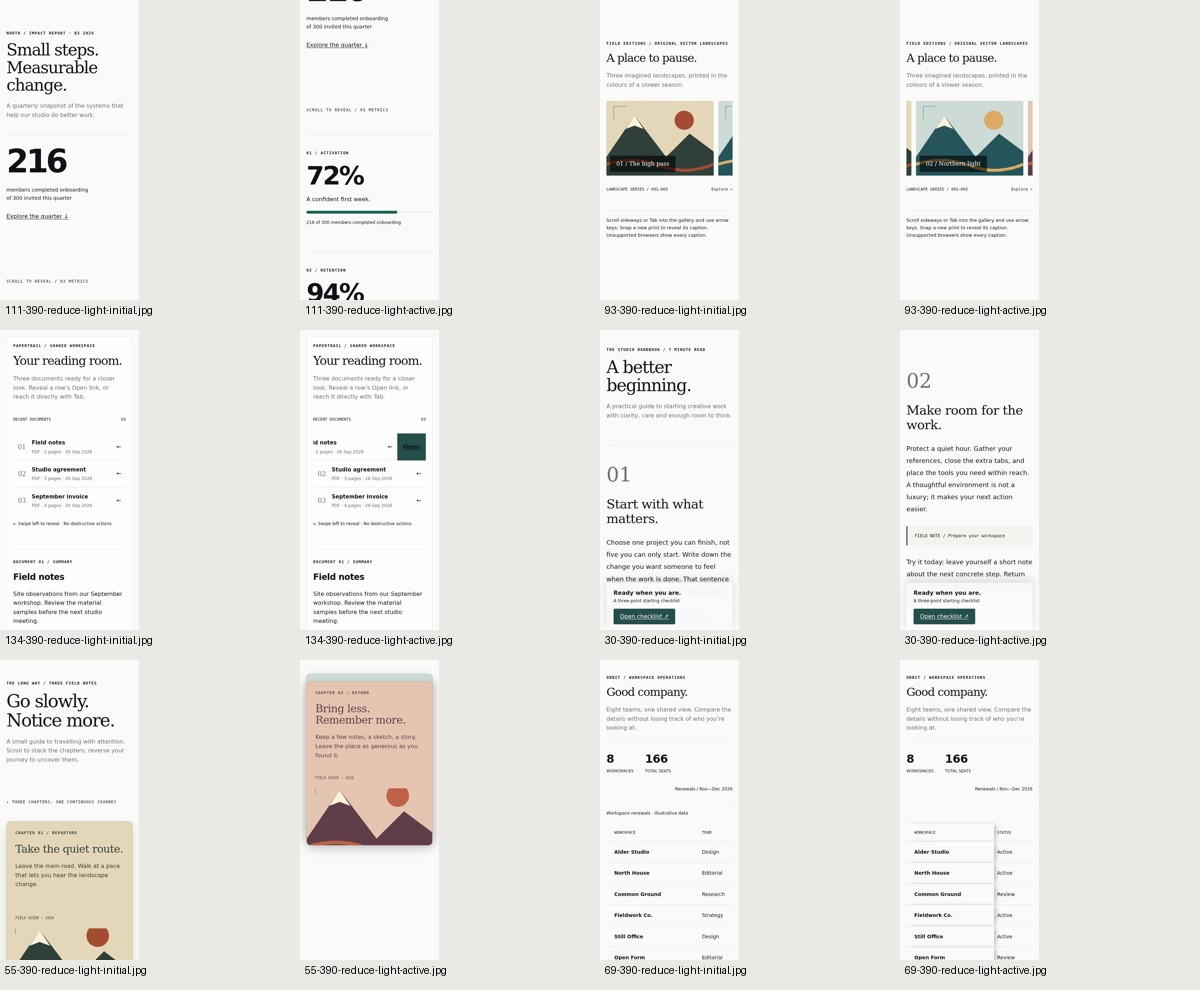
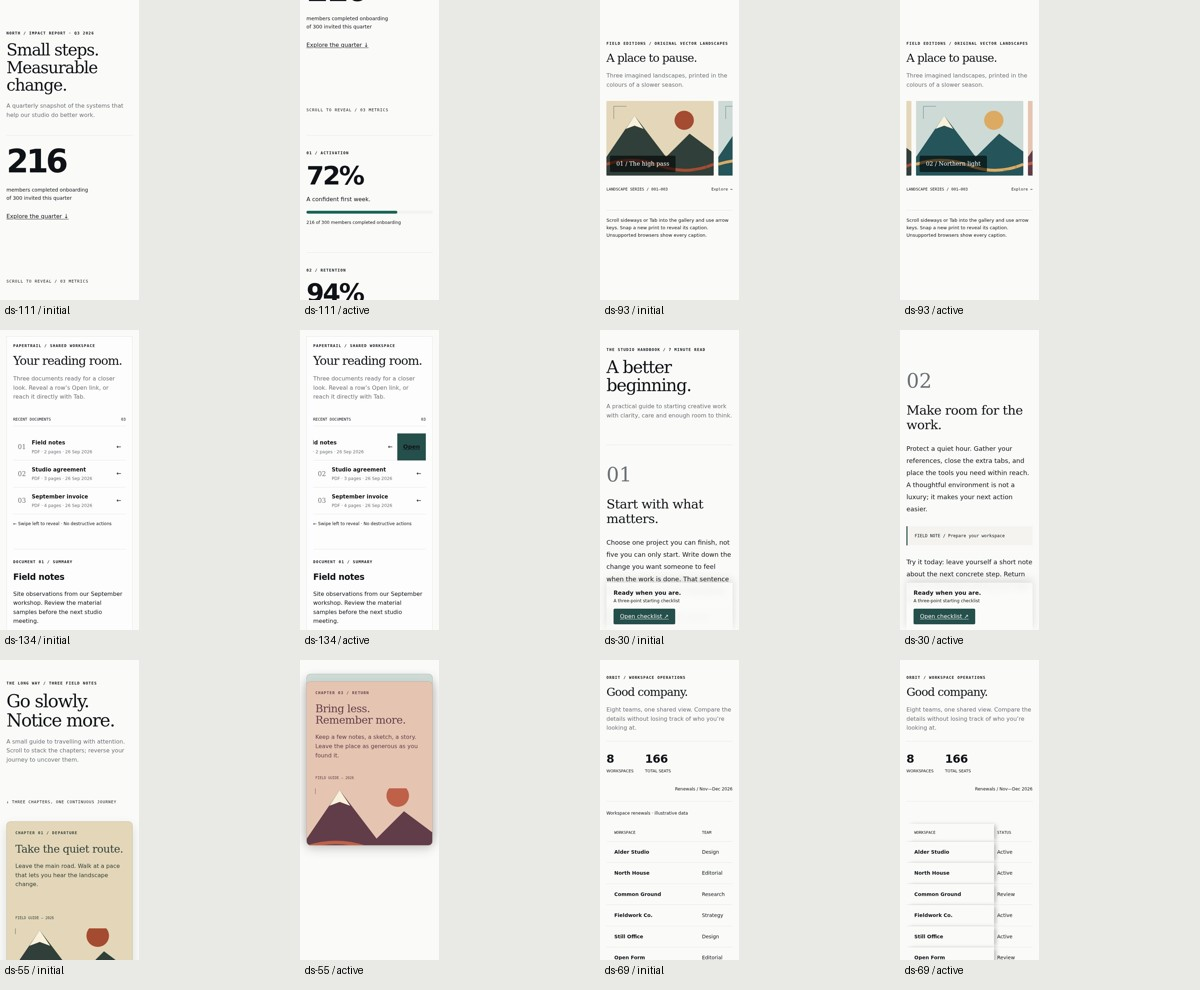
Stabilize native keyboard-to-snap handoff without weakening geometry checks

diff --git a/scripts/pilot02_contact_sheet.py b/scripts/pilot02_contact_sheet.py
@@ -7,7 +7,9 @@ for phase in ['before','after']:
     for width in [1440,390]:
         for variant in variants:
             files=[root/phase/f'{i}-{width}-{variant}{state}.jpg' for i in [111,93,134,30,55,69] for state in ['initial','active']]
-            sheet=Image.new('RGB',(1200,3*330),'#e9e9e6');draw=ImageDraw.Draw(sheet)
+            tile_height=210 if width==1440 else 330
+            image_height=188 if width==1440 else 300
+            sheet=Image.new('RGB',(1200,3*tile_height),'#e9e9e6');draw=ImageDraw.Draw(sheet)
             for i,f in enumerate(files):
-                im=Image.open(f);im.thumbnail((300,300));x=(i%4)*300;y=(i//4)*330;sheet.paste(im,(x,y));draw.text((x+5,y+304),f.name,fill='black')
+                im=Image.open(f);im.thumbnail((300,image_height));x=(i%4)*300;y=(i//4)*tile_height;sheet.paste(im,(x,y));draw.text((x+5,y+image_height+4),f'ds-{f.name.split("-")[0]} / {f.stem.split("-")[-1]}',fill='black')
             sheet.save(root/f'{phase}-{width}-{variant}contact.jpg',quality=90)

diff --git a/docs/DEMO-QUALITY-AUDIT.md b/docs/DEMO-QUALITY-AUDIT.md
@@ -114,7 +114,7 @@ The first local iteration exposed action-label overflow on mobile (fixed by posi
 - [First CI run 36229953305](https://github.com/FullThrottle83/design-spells/actions/runs/36229953305): full Chromium/Python/parity job passed; Firefox/WebKit job failed. Failure detail retrieval was blocked by EOF from GitHub log-storage hosts. Added the GitHub reporter to expose exact test failures in check annotations; no assertions or tolerances were removed.
 - Visual review caught the black-only shadow disappearing against the dark background. Canonical ds-30/69 shadows now use theme-aware colors; dark screenshots were recaptured.
 
-- [Annotated follow-up run 36230380138](https://github.com/FullThrottle83/design-spells/actions/runs/36230380138): **359 passed, 1 failed** across Firefox **153.0** and WebKit **26.5**. All WebKit cases passed. The one Firefox ds-93 desktop normal-motion test ended 59px off the exact snap center after a keyboard scroll immediately followed by a scripted off-grid scroll. The harness now waits for the native keyboard transaction to settle before starting the independent snap transaction and computes its target from current rendered geometry. The <2px assertion is unchanged; no case is skipped. Follow-up CI pending.
+- [Annotated follow-up run 36230380138](https://github.com/FullThrottle83/design-spells/actions/runs/36230380138): **359 passed, 1 failed** across Firefox **153.0** and WebKit **26.5**. All WebKit cases passed. The one Firefox ds-93 desktop normal-motion test ended 59px off the exact snap center after a keyboard scroll immediately followed by a scripted off-grid scroll. The harness now waits for the native keyboard transaction to settle before starting the independent snap transaction and computes its target from current rendered geometry. The <2px assertion is unchanged; no case is skipped. [Next run 36230806083](https://github.com/FullThrottle83/design-spells/actions/runs/36230806083): **all 166 Pilot 02 engine cases passed**; full cross-engine suite **359 passed, 1 failed**, this time in existing Pilot 01 ds-12 Firefox mobile iframe/reduced-motion interior snapping (24px residual). The same keyboard-settle handoff is now applied to that test harness only. Pilot 01 authored source, fixtures, exact <2px geometry assertion and evidence are untouched. Full Chromium/Python/parity passed again. Final follow-up pending.
 
 ### Next coherent batch — anchored contextual assistance
 
